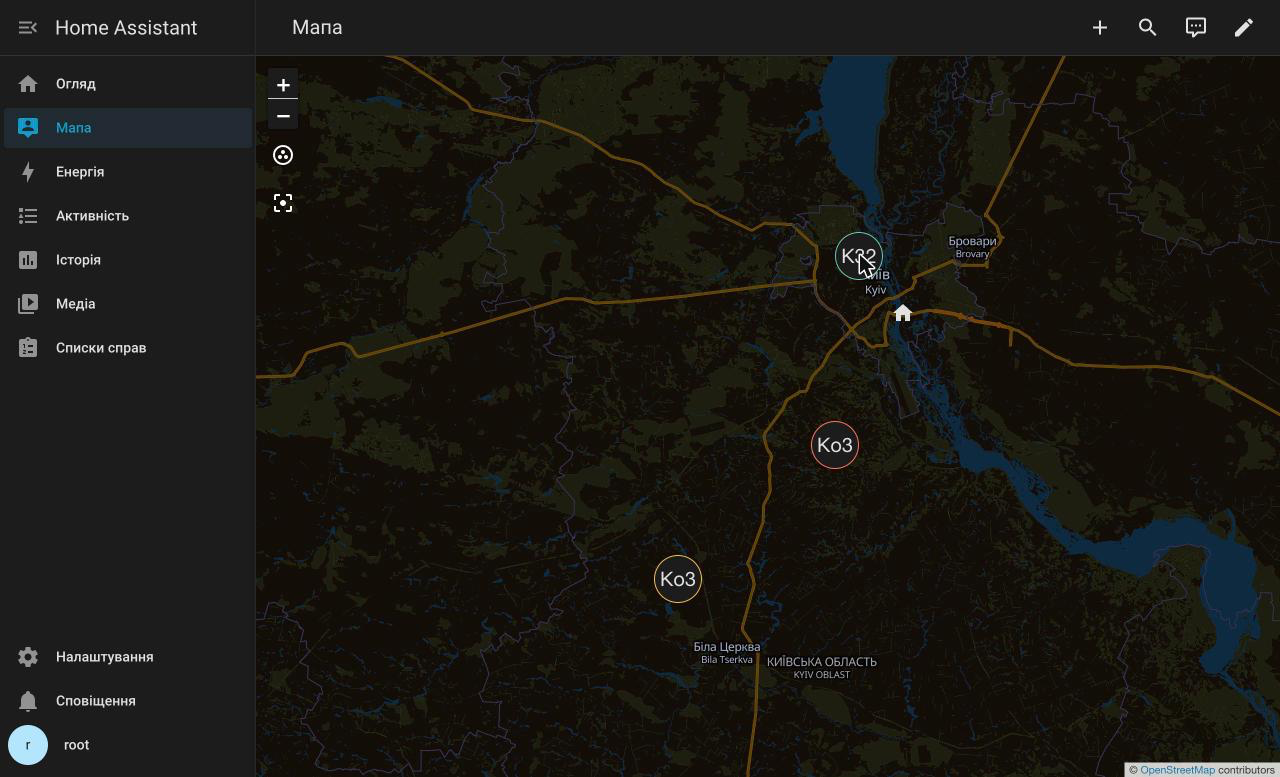
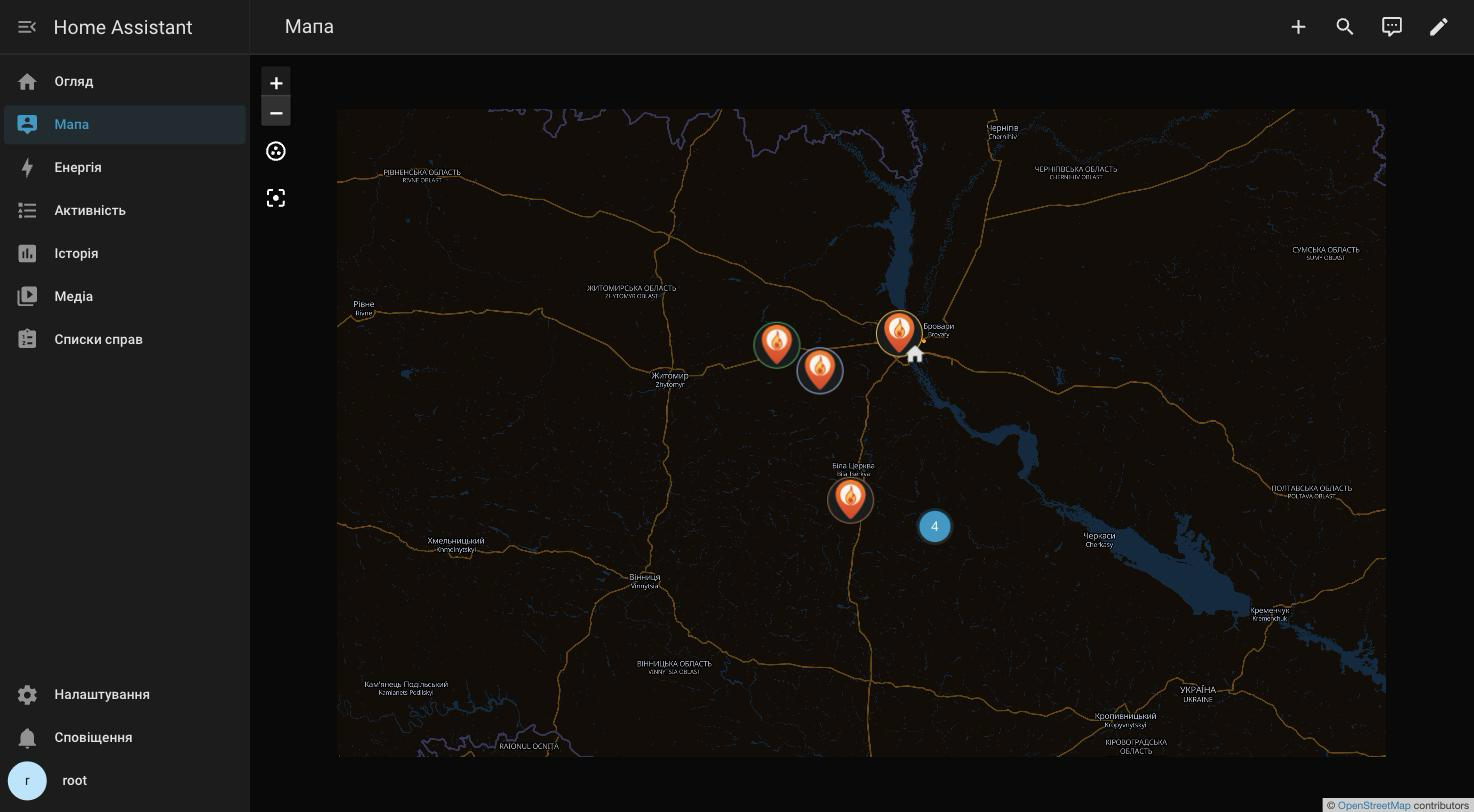
docs: refresh descriptions and screenshots for the new configure menu

diff --git a/README.md b/README.md
@@ -18,8 +18,9 @@
 
 > [!NOTE]
 > Супутникові осередки пожеж в обраній країні та її регіонах прямо в Home
-> Assistant: лічильники, сенсори «пожежа в регіоні», відстань до найближчого
-> осередку, події для автоматизацій і (за бажанням) маркери на мапі.
+> Assistant: лічильники, сенсори «пожежа в регіоні», зони й точки
+> спостереження з радіусом, відстань до найближчого осередку, події для
+> автоматизацій і (за бажанням) маркери на мапі.
 > Дані: [NASA FIRMS][firms] (VIIRS і MODIS). Межі країн і регіонів:
 > [geoBoundaries][geoboundaries].
 
@@ -49,7 +50,7 @@
 | `geo_location` | Херсонська область, 01.10 07:29 UTC | Маркер на мапі для кожного осередку (вимкнено за замовчуванням) |
 | `binary_sensor` (діагностика) | Застарілі дані | «Проблема», якщо супутники давно нічого не передавали (атрибути — час останніх даних по кожному джерелу) |
 
-Для кожної зони спостереження (опційно, див. налаштування):
+Для кожної зони або точки спостереження (опційно, див. налаштування):
 
 | Сутність | Приклад | Опис |
 | --- | --- | --- |
@@ -112,7 +113,19 @@
 
 <img src="./media/options-flow.png" alt="Вибір регіонів" width="500">
 
-Параметри (кнопка **Configure**):
+Кнопка **Configure** відкриває меню конфігурації: «Обрати регіони»
+(чекбокси), «Додати точку на карті», «Видалити точки спостереження» і
+«Параметри»:
+
+<img src="./media/configure-menu.png" alt="Меню Configure" width="500">
+
+**Точка спостереження** — це назва + маркер і радіус на мапі (коло
+тягнеться мишею, у кожної точки — свій радіус); точка отримує ті самі
+сутності й події, що й зона:
+
+<img src="./media/add-point.png" alt="Додавання точки на карті" width="400">
+
+Параметри:
 
 | Параметр | За замовчуванням | Опис |
 | --- | --- | --- |
@@ -124,12 +137,6 @@
 | Зони спостереження | немає | Зони HA, біля яких стежити за осередками в радіусі |
 | Радіус зон | 20 км | Радіус навколо кожної зони (1–200 км) |
 | Показувати на мапі | вимкнено | Маркер для кожного осередку; для всієї країни їх можуть бути сотні |
-
-Кнопка **Configure** відкриває меню: «Обрати регіони» (чекбокси),
-«Додати точку на карті», «Видалити точки спостереження» і «Параметри».
-**Точка спостереження** — це назва + маркер і радіус на мапі (коло
-тягнеться мишею, у кожної точки — свій радіус); точка отримує ті самі
-сутності й події, що й зона.
 
 Часове вікно, достовірність, інтервал і мапа доступні також як сутності в
 блоці «Налаштування» на сторінці пристрою — зручно міняти без діалогу:

diff --git a/readme.en.md b/readme.en.md
@@ -18,8 +18,9 @@
 
 > [!NOTE]
 > Satellite fire hotspots for a country and its regions in Home Assistant:
-> counters, "fire in region" sensors, distance to the nearest hotspot, events
-> for automations and optional map markers.
+> counters, "fire in region" sensors, watch zones and map points with a
+> radius, distance to the nearest hotspot, events for automations and
+> optional map markers.
 > Data: [NASA FIRMS][firms] (VIIRS and MODIS). Boundaries:
 > [geoBoundaries][geoboundaries].
 
@@ -45,7 +46,7 @@ Per country:
 - `geo_location` — one map marker per hotspot (off by default).
 - `binary_sensor` (diagnostic) **Stale data** — problem when satellites have not delivered for a while; per-source timestamps in attributes.
 
-Per watched zone (optional): **Hotspots near _zone_** (counts within the
+Per watched zone or map point (optional): **Hotspots near _zone_** (counts within the
 radius, regardless of regions and country borders), **Fire near _zone_**
 (safety) and **Nearest hotspot: _zone_** (km from the zone centre). New
 hotspots near zones fire a separate `detected_near_zone` event type.
@@ -104,7 +105,9 @@ interval (10–180 min, default 30), watch zones with a shared radius
 The **Configure** button opens a menu: "Select regions", "Add a point on the
 map", "Remove watch points" and "Settings". A **watch point** is a name plus
 a draggable marker with a radius circle (each point has its own radius); it
-gets the same entities and events as a zone.
+gets the same entities and events as a zone:
+
+<img src="./media/add-point.png" alt="Adding a watch point" width="400">
 
 The time window, confidence, interval and map toggle are also exposed as
 configuration entities on the device page:
